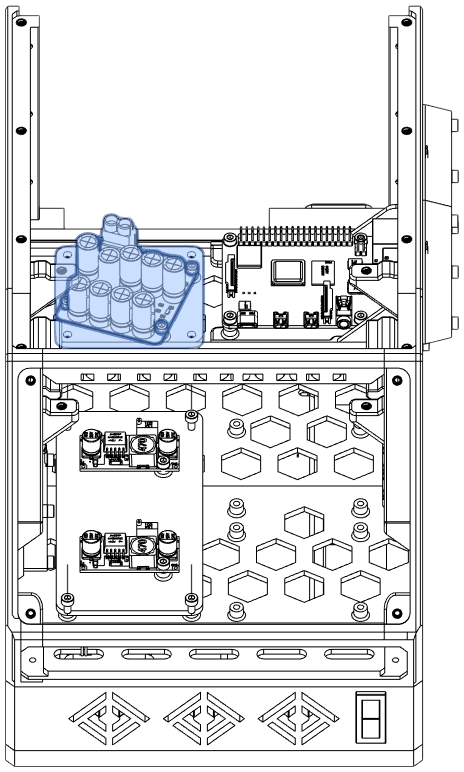
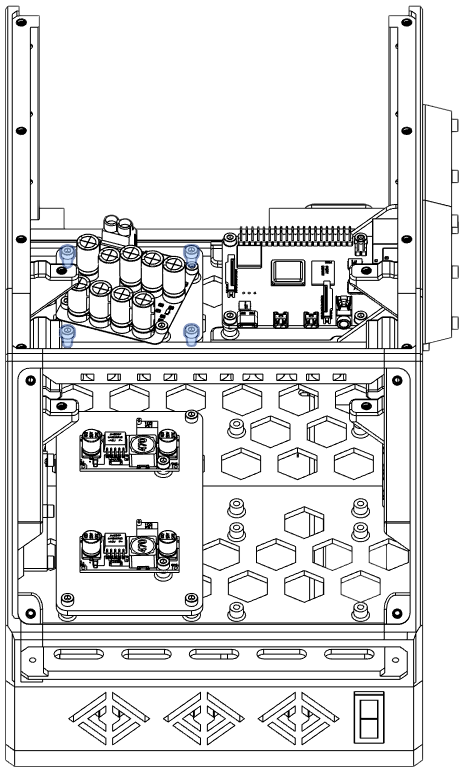
Lower bay and front panel updates

diff --git a/docs/assembly_v2/lower_bay.md b/docs/assembly_v2/lower_bay.md
@@ -41,22 +41,22 @@ Long trays can be mounted on the left or right side of the lower bay. Long trays
                                                             
 <figure markdown>
   [![illustration][lower_bay1]{width="480"}][lower_bay1]
-  <figcaption>1. TODO</figcaption>
+  <figcaption>1. Set a buck converter on the tray, aligning with the screw holes.</figcaption>
 </figure>
 
 <figure markdown>
   [![illustration][lower_bay2]{width="480"}][lower_bay2]
-  <figcaption>2. TODO</figcaption>
+  <figcaption>2. Fasten with two (2) M3 x 6mm screws.</figcaption>
 </figure>
 
 <figure markdown>
   [![illustration][lower_bay3]{width="480"}][lower_bay3]
-  <figcaption>3. TODO</figcaption>
+  <figcaption>3. Repeat the first two steps with the second buck converter.</figcaption>
 </figure>
 
 <figure markdown>
   [![illustration][lower_bay4]{width="480"}][lower_bay4]
-  <figcaption>4. TODO</figcaption>
+  <figcaption>4. The tray will fit on either left or right side, set longways as pictured. Secure with four (4) M4 x 6mm screws.</figcaption>
 </figure>
 
 ## Short Trays
@@ -87,23 +87,18 @@ Short trays can mount anywhere in the lower bay, including in an unoccupied CPU 
 ### Directions
                                                             
 <figure markdown>
-  [![illustration][lower_bay5]{width="480"}][lower_bay5]
-  <figcaption>1. TODO</figcaption>
+  [![illustration][lower_bay5]][lower_bay5]
+  <figcaption>1. Set the UPS on the lower bay tray.</figcaption>
 </figure>
 
 <figure markdown>
-  [![illustration][lower_bay6]{width="480"}][lower_bay6]
-  <figcaption>2. TODO</figcaption>
+  [![illustration][lower_bay6]][lower_bay6]
+  <figcaption>2. Fasten the UPS to the tray with four (4) M4 x 6mm screws.</figcaption>
 </figure>
 
 <figure markdown>
   [![illustration][lower_bay7]{width="480"}][lower_bay7]
-  <figcaption>3. TODO</figcaption>
-</figure>
-
-<figure markdown>
-  [![illustration][lower_bay8]{width="480"}][lower_bay8]
-  <figcaption>4. TODO</figcaption>
+  <figcaption>3. Secure the tray to the case with four (4) M4 x 6mm screws.</figcaption>
 </figure>
 
 ## Finished Reference
@@ -117,6 +112,4 @@ Short trays can mount anywhere in the lower bay, including in an unoccupied CPU 
 [lower_bay5]: ../img/assembly/trays/lower_bay/lower_bay5.png
 [lower_bay6]: ../img/assembly/trays/lower_bay/lower_bay6.png
 [lower_bay7]: ../img/assembly/trays/lower_bay/lower_bay7.png
-[lower_bay8]: ../img/assembly/trays/lower_bay/lower_bay8.png
 [lower_bay_final]: ../img/assembly/trays/lower_bay/lower_bay_final.png
-[vid_lower_bay]: ../video/lower_bay.mp4

diff --git a/docs/assembly_v2/front.md b/docs/assembly_v2/front.md
@@ -34,12 +34,12 @@ date: 2022-11-03
 ### Directions
                                                             
 <figure markdown>
-  [![illustration][front1]{width="480"}][front1]
+  [![illustration][front1]][front1]
   <figcaption>1. TODO</figcaption>
 </figure>
 
 <figure markdown>
-  [![illustration][front2]{width="480"}][front2]
+  [![illustration][front2]][front2]
   <figcaption>2. TODO</figcaption>
 </figure>
 
